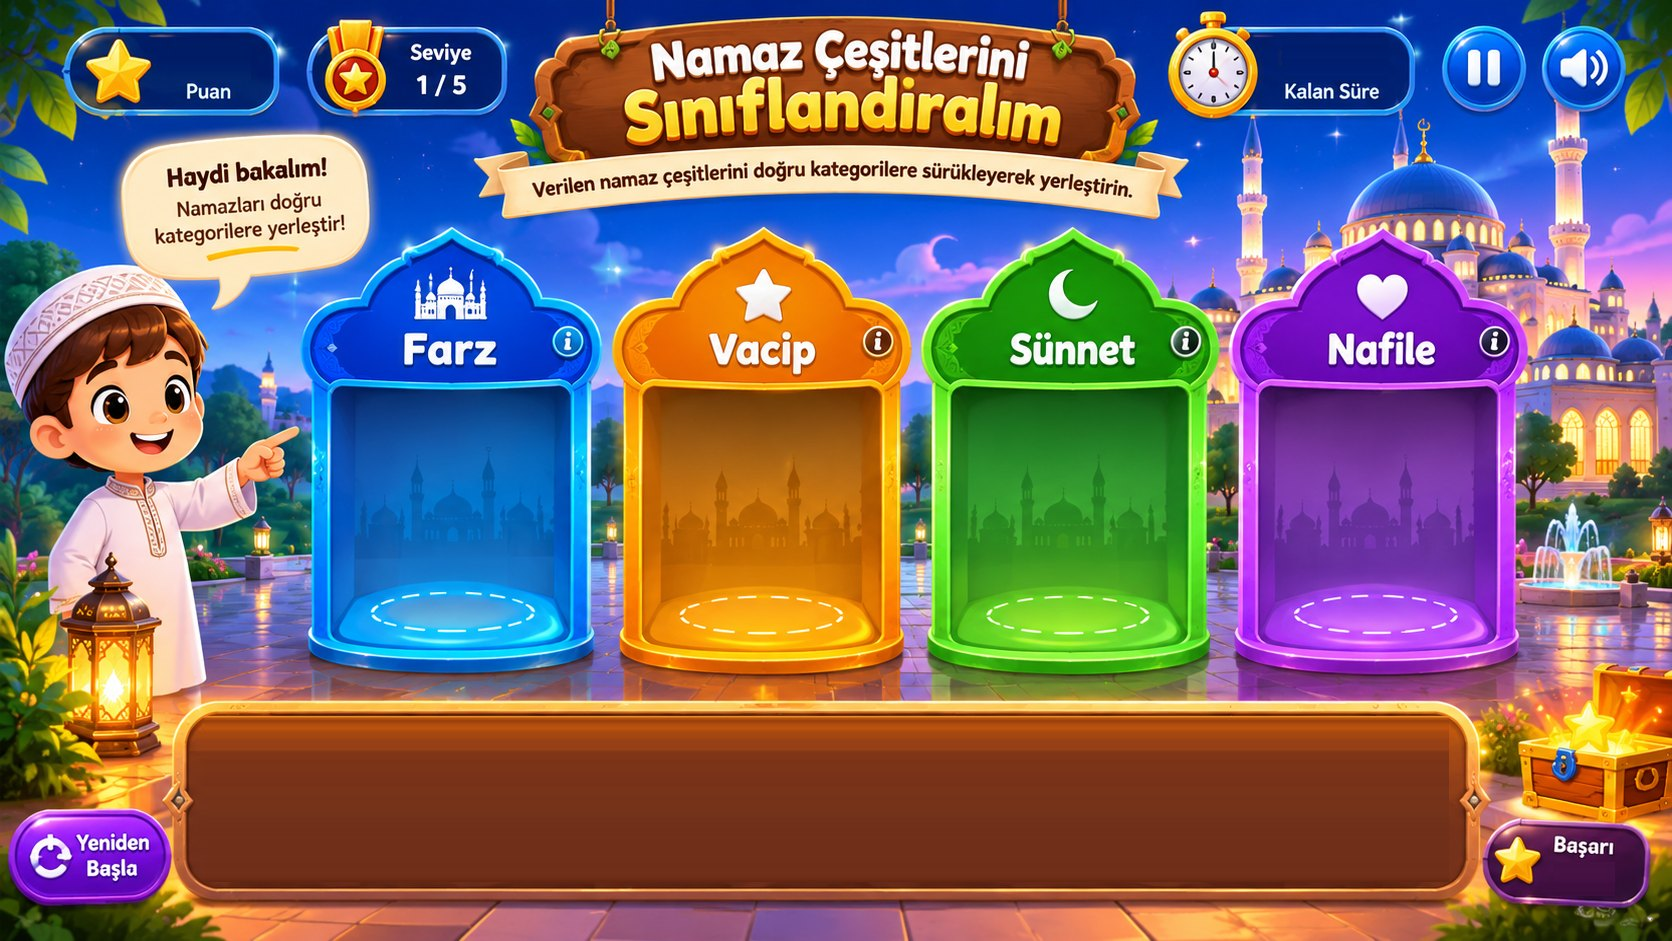
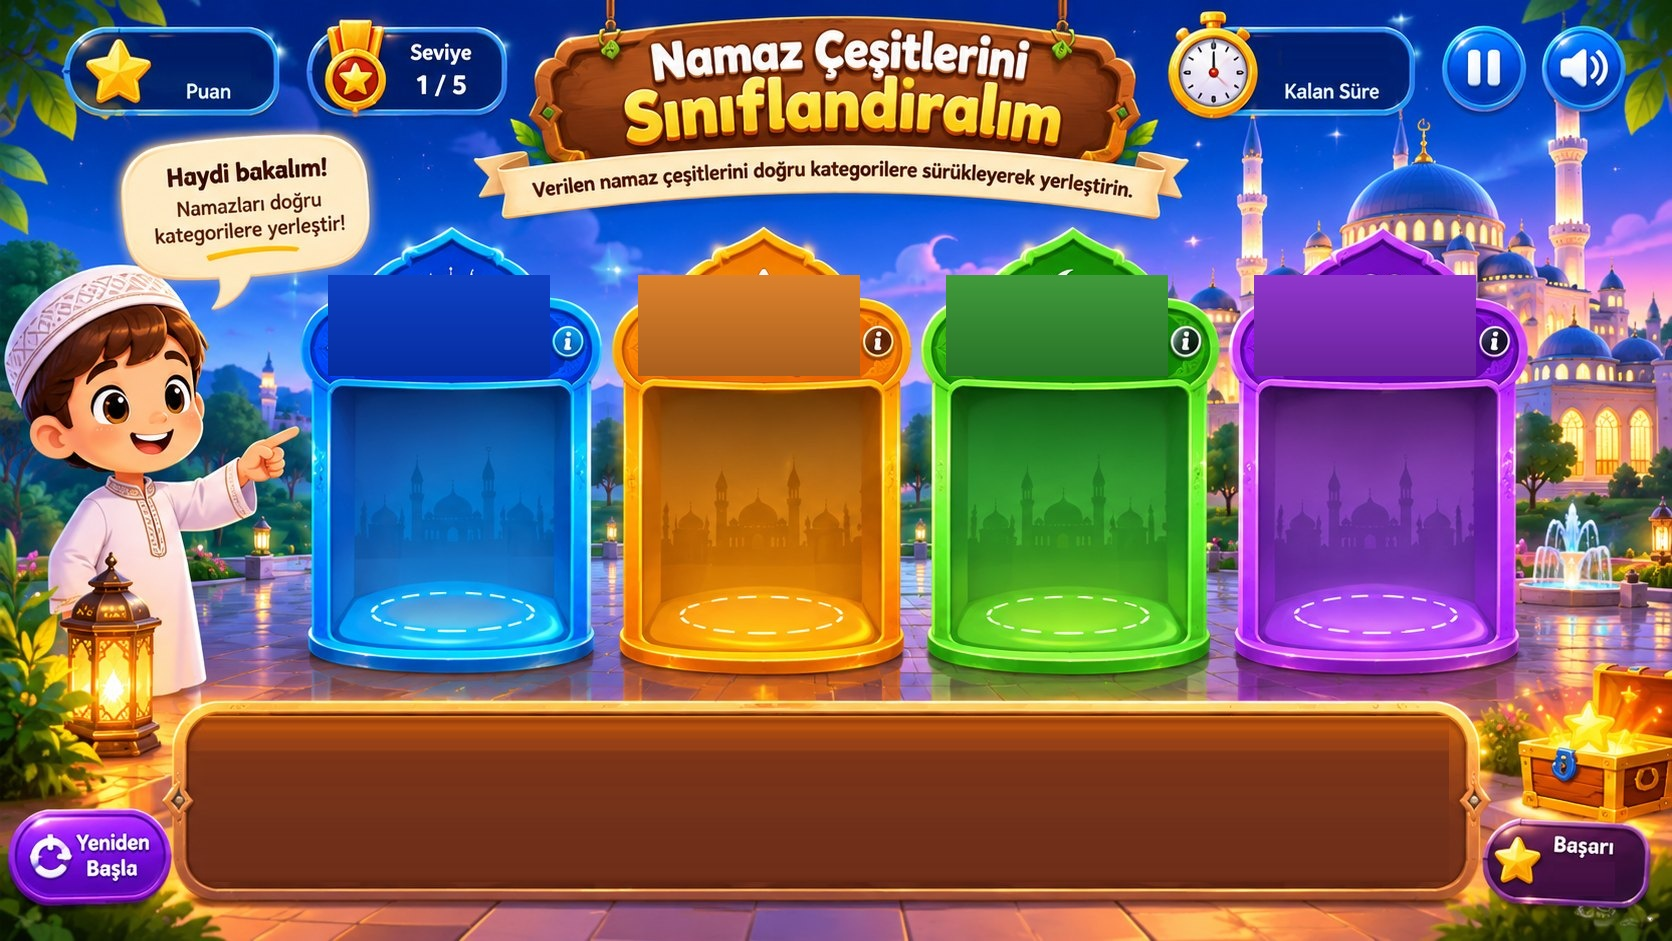
fix: arka plandaki eski sabit yazi tamamen temizlendi, dinamik kategori basliklari kusursuz hizalandi

diff --git a/src/components/lesson-viewer/players/category-sorting-player.tsx b/src/components/lesson-viewer/players/category-sorting-player.tsx
@@ -49,7 +49,7 @@ const DEFAULT_ITEMS: CategorySortItem[] = [
     { id: 'it-9', text: 'Yatsı Sünneti', hint: 'Yatsı vaktinde', categoryId: 'sunnet' },
     { id: 'it-10', text: 'Kuşluk Namazı', hint: 'Duha namazı', categoryId: 'nafile' },
     { id: 'it-11', text: 'Teheccüd Namazı', hint: 'Gece namazı', categoryId: 'nafile' },
-    { id: 'it-12', text: 'Evvâbin Namazı', hint: 'Akşamdan sonra', categoryId: 'nafile' },
+    { id: 'it-12', text: 'Evvâbin Namazı', hint: 'Akşam ile yatsı arası', categoryId: 'nafile' },
 ];
 
 // 🎯 Akıllı İkon Eşleştirici
@@ -86,16 +86,6 @@ function getCategoryIcon(name: string, index: number): string {
     const defaults = ['🕌', '⭐', '💚', '💜', '🔷', '🔶', '🎯', '✨'];
     return defaults[index % defaults.length];
 }
-
-// Kategori Şerit Plaka Stilleri
-const RIBBON_STYLES = [
-    { bg: 'linear-gradient(180deg, #1976d2 0%, #0d47a1 100%)', border: '#64b5f6', shadow: '#1565c0' },
-    { bg: 'linear-gradient(180deg, #e67e22 0%, #d35400 100%)', border: '#f39c12', shadow: '#b9770e' },
-    { bg: 'linear-gradient(180deg, #2e7d32 0%, #1b5e20 100%)', border: '#81c784', shadow: '#1e8449' },
-    { bg: 'linear-gradient(180deg, #7b1fa2 0%, #4a148c 100%)', border: '#ba68c8', shadow: '#6c3483' },
-    { bg: 'linear-gradient(180deg, #c0392b 0%, #922b21 100%)', border: '#e74c3c', shadow: '#78281f' },
-    { bg: 'linear-gradient(180deg, #00838f 0%, #006064 100%)', border: '#4dd0e1', shadow: '#00838f' },
-];
 
 // Kategori Eşleştirme Kontrolü
 function isCategoryMatch(itemCatId: string, cat: CategorySortCategory): boolean {
@@ -673,17 +663,17 @@ export function CategorySortingPlayer({
                     transform: scale(0.95);
                 }
 
-                /* 🌟 Dinamik Kategori Şerit Plakası (Arka plandaki yazıyı tamamen örter ve dinamik başlığı gösterir) */
+                /* 🌟 Dinamik Kategori Plakası (Temizlenmiş kaide alanında tek ve net başlık) */
                 .cat-ribbon-plaque {
                     position: absolute;
-                    top: 318px;
+                    top: 285px;
                     width: 226px;
-                    height: 52px;
-                    border-radius: 12px;
+                    height: 86px;
                     display: flex;
+                    flex-direction: column;
                     align-items: center;
                     justify-content: center;
-                    padding: 0 10px;
+                    padding: 4px 8px;
                     box-sizing: border-box;
                     z-index: 10;
                     cursor: pointer;
@@ -691,28 +681,44 @@ export function CategorySortingPlayer({
                 }
 
                 .cat-ribbon-plaque:hover {
-                    transform: scale(1.03);
+                    transform: scale(1.04);
+                }
+
+                .cat-ribbon-icon {
+                    font-size: 26px;
+                    line-height: 1;
+                    filter: drop-shadow(0 2px 4px rgba(0,0,0,0.4));
+                    margin-bottom: 2px;
                 }
 
                 .cat-ribbon-title {
-                    color: #fff;
-                    font-weight: 800;
+                    color: #ffffff;
+                    font-weight: 900;
                     text-align: center;
                     letter-spacing: 0.5px;
-                    text-shadow: 0 2px 4px rgba(0,0,0,0.8);
-                    display: flex;
-                    align-items: center;
-                    gap: 6px;
-                    white-space: nowrap;
-                    overflow: hidden;
-                    text-overflow: ellipsis;
+                    text-shadow: 0 2px 6px rgba(0,0,0,0.9), 0 0 12px rgba(0,0,0,0.6);
+                    line-height: 1.1;
+                    max-width: 100%;
+                    word-break: break-word;
+                }
+
+                .cat-ribbon-badge {
+                    margin-top: 3px;
+                    background: rgba(255, 255, 255, 0.22);
+                    border: 1px solid rgba(255, 255, 255, 0.4);
+                    color: #fff;
+                    font-size: 10px;
+                    font-weight: 800;
+                    padding: 1px 7px;
+                    border-radius: 8px;
+                    text-shadow: 0 1px 2px rgba(0,0,0,0.6);
                 }
 
                 .cat-info-circle {
                     position: absolute;
-                    top: 325px;
-                    width: 36px;
-                    height: 36px;
+                    top: 323px;
+                    width: 38px;
+                    height: 38px;
                     border-radius: 50%;
                     background: transparent;
                     border: 0;
@@ -1058,7 +1064,6 @@ export function CategorySortingPlayer({
                 {/* 8. Dinamik Kategoriler (Otomatik Değişen İsimler, İkonlar, Şeritler ve Kaideler) */}
                 {categories.map((cat, idx) => {
                     const binX = binXCoords[idx] || 310;
-                    const ribbon = RIBBON_STYLES[idx % RIBBON_STYLES.length];
                     const catTitle = cat.name.toUpperCase();
                     const fontSize = catTitle.length > 18 ? 14 : catTitle.length > 12 ? 16 : 20;
 
@@ -1070,22 +1075,20 @@ export function CategorySortingPlayer({
                                 style={{ left: binX }}
                             />
 
-                            {/* 🌟 Kategori İsim Plakası: Arka plandaki şeridi örter, kategori ismini dinamik gösterir */}
+                            {/* 🌟 Dinamik Kategori İsim Plakası (Temizlenmiş kaidede tek ve net başlık) */}
                             <div
                                 className="cat-ribbon-plaque"
-                                style={{
-                                    left: binX + 16,
-                                    background: ribbon.bg,
-                                    border: `2.5px solid ${ribbon.border}`,
-                                    boxShadow: `0 4px 10px rgba(0,0,0,0.5), inset 0 2px 4px rgba(255,255,255,0.35)`,
-                                }}
+                                style={{ left: binX + 16 }}
                                 onClick={() => handleCategoryClick(cat)}
                                 title={`${cat.name}: Bu kaideye yerleştirmek için tıklayın`}
                             >
+                                <span className="cat-ribbon-icon">{getCategoryIcon(cat.name, idx)}</span>
                                 <div className="cat-ribbon-title" style={{ fontSize }}>
-                                    <span>{getCategoryIcon(cat.name, idx)}</span>
-                                    <span>{catTitle}</span>
+                                    {catTitle}
                                 </div>
+                                {cat.badge && (
+                                    <span className="cat-ribbon-badge">{cat.badge}</span>
+                                )}
                             </div>
 
                             {/* Kategori Bilgi Butonu (i) */}
